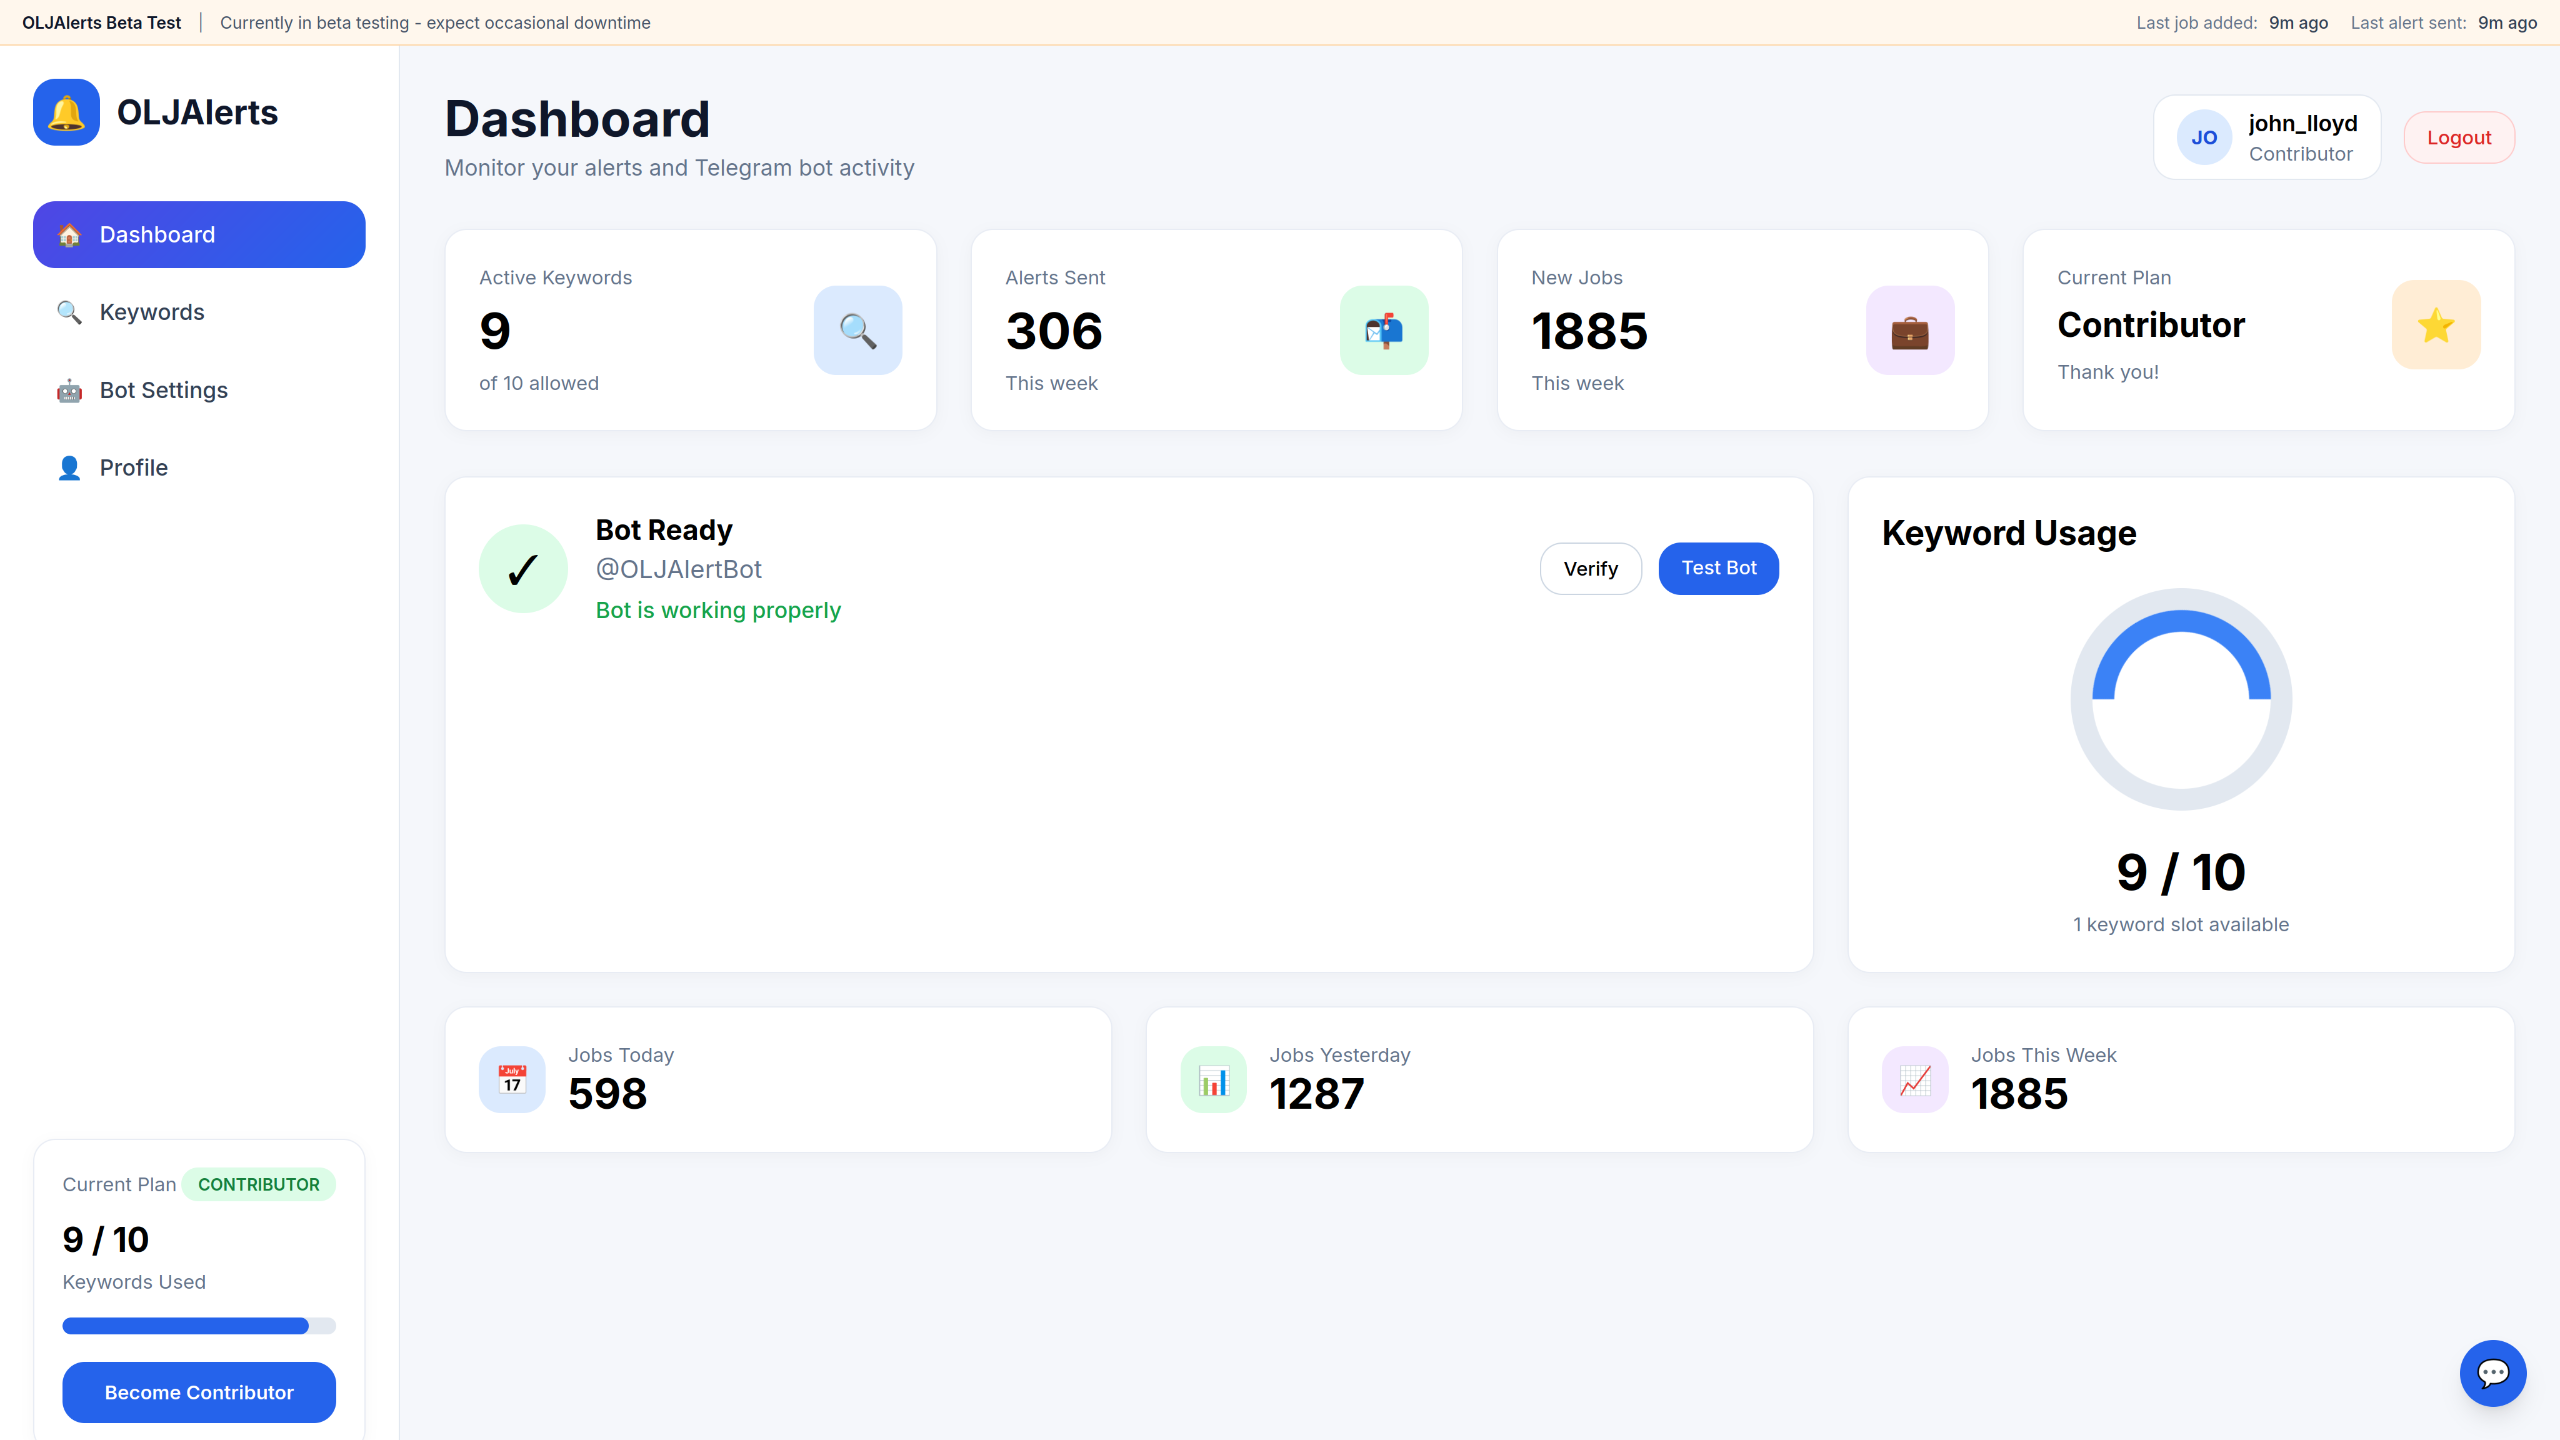
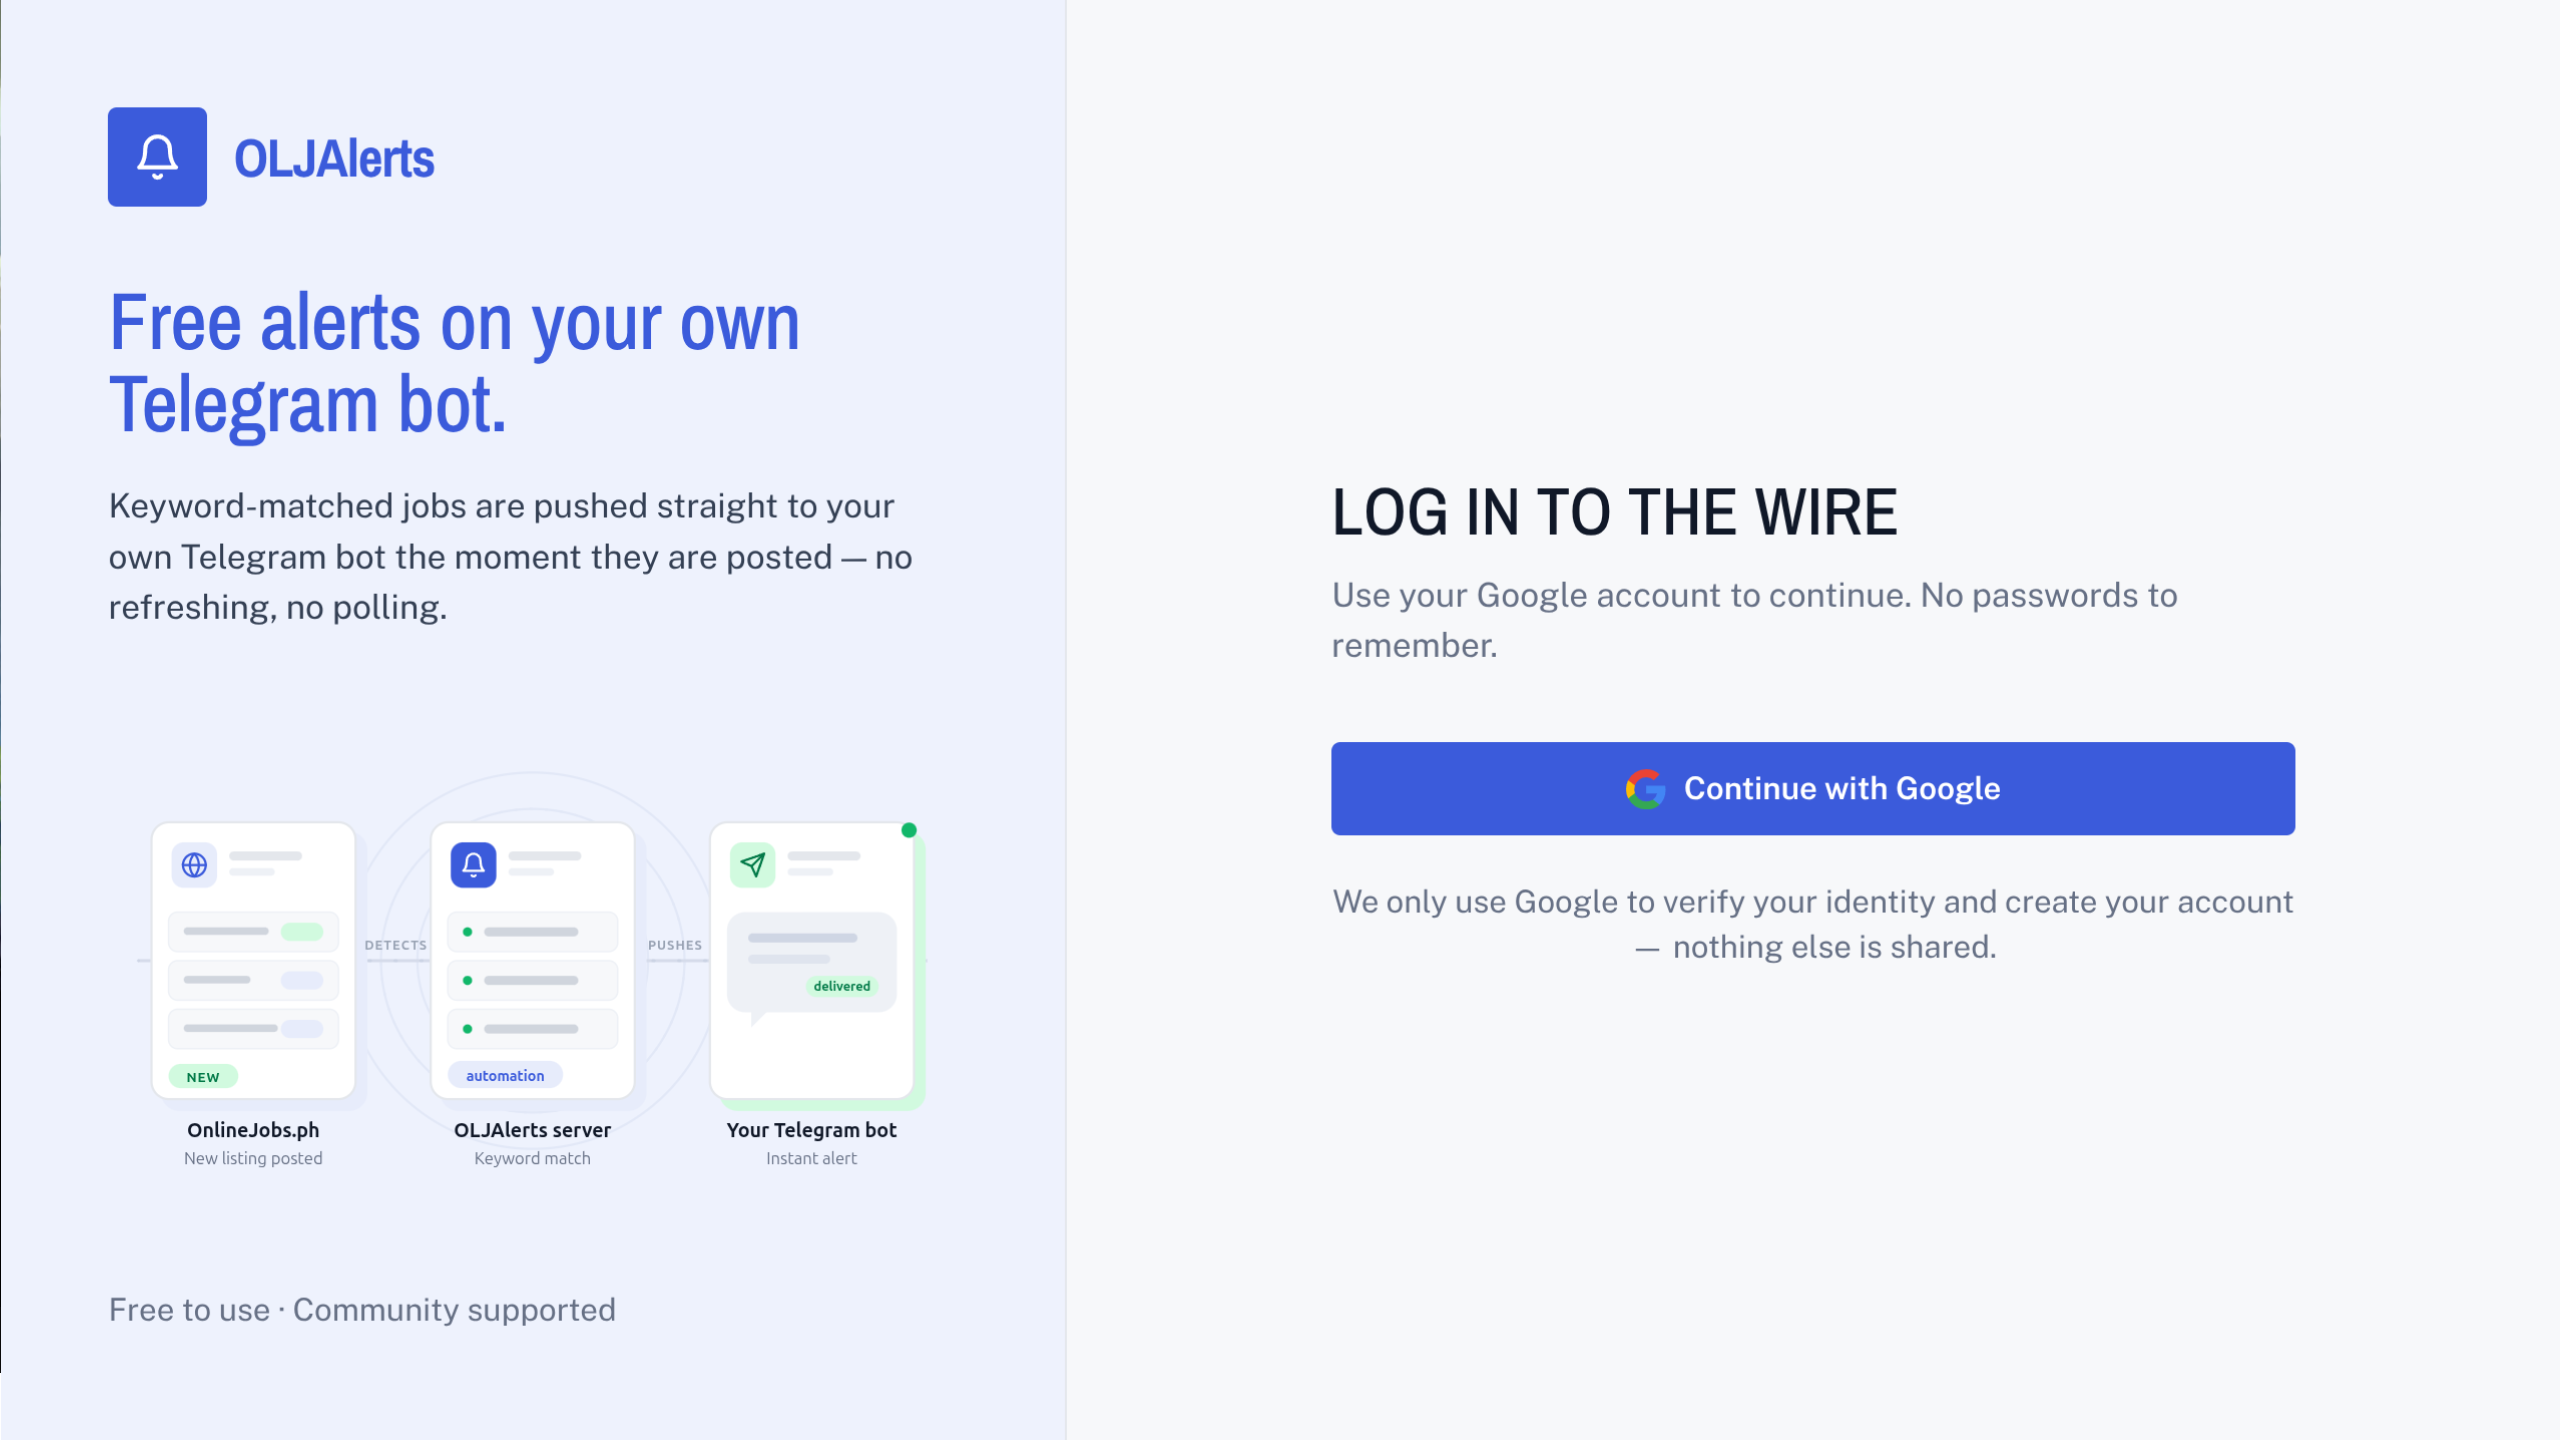
Update olj job alert image

diff --git a/olj-job-alert-webapp.html b/olj-job-alert-webapp.html
@@ -119,8 +119,14 @@
                 </div>
                 <div class="carousel__slide">
                   <img class="project-picture"
-                    src="./assets/jpeg/project-olj-job-alert-webapp-2.jpg"
+                    src="./assets/jpeg/project-olj-job-alert-webapp-2.png"
                     alt="Telegram Bot Image"
+                  />
+                </div>
+                <div class="carousel__slide">
+                  <img class="project-picture"
+                    src="./assets/jpeg/project-olj-job-alert-webapp-3.png"
+                    alt="Keyword Subscriptions and Alerts"
                   />
                 </div>
               </div>
@@ -128,6 +134,7 @@
               <button class="carousel__btn carousel__btn--next" aria-label="Next slide">&#10095;</button>
               <div class="carousel__indicators">
                 <span class="carousel__dot carousel__dot--active"></span>
+                <span class="carousel__dot"></span>
                 <span class="carousel__dot"></span>
               </div>
             </div>
